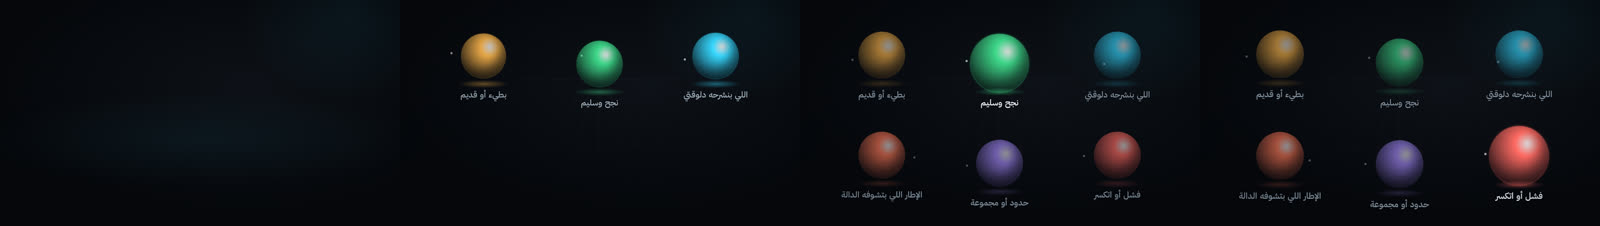
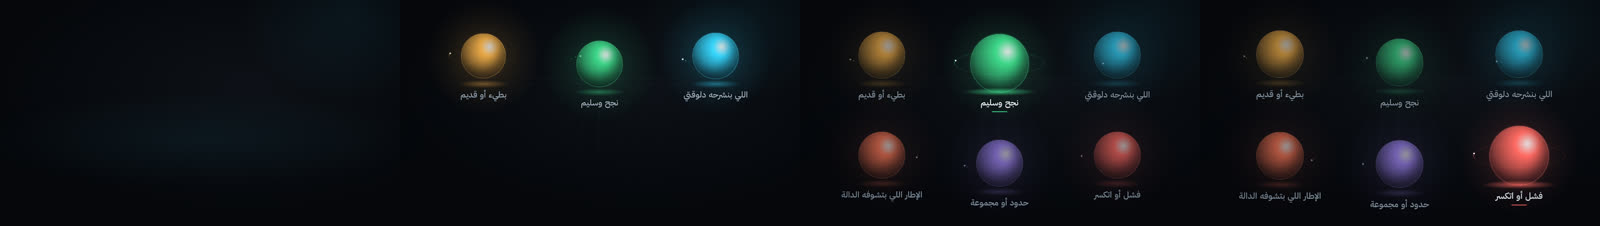
P7 dom-a: LegendOrbs finished (back glow, orbit ellipses, comet satellites, focus pulse rings, floor pool; snap PASS det 0 pending-critic; perf lite 0.153 / standard 0.182 / hero 0.186 box s/frame; Arabic QA pass)
Claude-Session: https://claude.ai/code/session_01VrU9wxU8GmuhdhWAAHnnQ8

diff --git a/studio/src/components/LegendOrbs/LegendOrbs.tsx b/studio/src/components/LegendOrbs/LegendOrbs.tsx
@@ -4,7 +4,8 @@
 // with >= 40 px between them by construction (AT-4). 6-8 items use two rows.
 // Motion: orbs arrive staggered 3 f@24 from the layer anchor (RV1 onset); `focus {index}` (anchored to the word that names
 // the meaning) -> that orb swells 1.25x with an impact flash, its label turns ink, the others dim to 45 %. Focus holds until
-// the next focus. DOM + SVG only (no WebGL): every tier is the same code; glow radii follow the tier tokens.
+// the next focus; two pulse rings ripple out on the focus word. Each orb has a back glow, a floor light pool, a thin orbit ellipse and
+// a comet-tailed satellite (depth-ordered). DOM + SVG only (no WebGL): every tier is the same code; glow radii follow the tier tokens.
 import React from 'react';
 import {interpolate, random} from 'remotion';
 import {C, FONT, SIZE} from '../../tokens';
@@ -49,14 +50,6 @@ export const LegendOrbsView: React.FC<DcProps<Props>> = ({props, ctx}) => {
   return (
     <div style={{position: 'absolute', inset: 0, ...layerStyle(ctx, rtl)}}>
       <Floor x={ctx.box.x} y={L.pos[0].y + L.r * 0.9} w={ctx.box.w} h={Math.round(ctx.box.h * 0.4)} opacity={0.45} />
-      {/* orbit ellipse (decorative, neutral) */}
-      <svg width={ctx.box.w} height={ctx.box.h} style={{position: 'absolute', left: ctx.box.x, top: ctx.box.y, overflow: 'visible'}}>
-        {Array.from({length: L.rows}, (_, row) => {
-          const ys = L.pos.filter((_, i) => Math.floor(i / Math.ceil(n / L.rows)) === row).map((p) => p.y);
-          const cy = (Math.min(...ys) + Math.max(...ys)) / 2 - ctx.box.y;
-          return <ellipse key={row} cx={ctx.box.w / 2} cy={cy} rx={ctx.box.w * 0.47} ry={Math.max(18, L.r * 0.55)} fill="none" stroke={C.ink3} strokeOpacity={0.35} strokeDasharray="2 10" strokeWidth={1.5} />;
-        })}
-      </svg>
       {props.items.map((it, i) => {
         const born = ctx.at + ff(3 * i, ctx.fps);
         if (t < born) return null;
@@ -68,35 +61,59 @@ export const LegendOrbsView: React.FC<DcProps<Props>> = ({props, ctx}) => {
         const sc = (isF ? 1 + 0.25 * fq : 1) * (0.7 + 0.3 * ent);
         const {x, y} = L.pos[i];
         const ph = random(`orb-${i}`) * Math.PI * 2;
-        const ang = ph + ((t - born) / ff(72, ctx.fps)) * Math.PI * 2; // one satellite turn per 3 s of film frames
-        const sx = Math.cos(ang) * L.r * 1.45;
-        const sy = Math.sin(ang) * L.r * 0.42;
-        const front = Math.sin(ang) > 0;
+        const turn = ff(72, ctx.fps); // one satellite turn per 3 s of film frames
+        const ang = (k: number) => ph + ((t - born - k * ff(2, ctx.fps)) / turn) * Math.PI * 2;
+        const rx = L.r * 1.55 * sc;
+        const ry = L.r * 0.4 * sc;
+        const front = Math.sin(ang(0)) > 0;
         const k = (0.9 + 0.8 * flash + (isF ? 0.5 * fq : 0)) * glowK * dim;
-        const sat = <div style={{position: 'absolute', left: x + sx - 5, top: y + sy - 5, width: 10, height: 10, borderRadius: '50%', background: C.ink, opacity: 0.7 * ent * dim, boxShadow: emit(tone, ctx.fx, 0.4)}} />;
+        // satellite + a 4-dot comet tail (seeded phase, depth-ordered: back half behind the orb, front half over it)
+        const sat = (
+          <>
+            {[3, 2, 1, 0].map((j) => (
+              <div key={j} style={{position: 'absolute', left: x + Math.cos(ang(j)) * rx - (8 - j * 1.5) / 2, top: y + Math.sin(ang(j)) * ry - (8 - j * 1.5) / 2, width: 8 - j * 1.5, height: 8 - j * 1.5, borderRadius: '50%', background: j === 0 ? C.white : tone, opacity: (j === 0 ? 0.9 : 0.5 - j * 0.12) * ent * dim, boxShadow: j === 0 ? emit(tone, ctx.fx, 0.5) : undefined}} />
+            ))}
+          </>
+        );
+        // pulse rings: two expanding rings on the focus word, one per 4 f@24
+        const age = cur && isF ? t - cur.at : -1;
+        const ringLife = ff(20, ctx.fps);
+        const rings = [0, 1].map((j) => {
+          const a2 = age - ff(4 * j, ctx.fps);
+          if (a2 < 0 || a2 > ringLife) return null;
+          const q = a2 / ringLife;
+          const rr = L.r * sc * (1.05 + 0.9 * (1 - Math.pow(1 - q, 2)));
+          return <div key={j} style={{position: 'absolute', left: x - rr, top: y - rr, width: 2 * rr, height: 2 * rr, borderRadius: '50%', border: `2px solid ${tone}${hex(0.8 * (1 - q))}`}} />;
+        });
+        const glowR = L.r * (2.6 + 0.8 * flash);
         return (
           <React.Fragment key={i}>
+            {/* back glow on the far plane + floor light pool (the named orb is the brightest thing on screen) */}
+            <div style={{position: 'absolute', left: x - glowR, top: y - glowR, width: 2 * glowR, height: 2 * glowR, borderRadius: '50%', background: `radial-gradient(circle, ${tone}${hex(0.22 * ent * dim * glowK)} 0%, ${tone}${hex(0.06 * ent * dim)} 45%, transparent 70%)`}} />
+            <div style={{position: 'absolute', left: x - rx, top: y - ry, width: 2 * rx, height: 2 * ry, borderRadius: '50%', border: `1.5px solid ${tone}${hex((0.16 + 0.3 * (isF ? fq : 0)) * ent * dim)}`}} />
             {!front ? sat : null}
             <div
               style={{
                 position: 'absolute',
-                left: x - L.r,
-                top: y - L.r,
-                width: 2 * L.r,
-                height: 2 * L.r,
+                left: x - L.r * sc,
+                top: y - L.r * sc,
+                width: 2 * L.r * sc,
+                height: 2 * L.r * sc,
                 borderRadius: '50%',
                 opacity: ent * (0.35 + 0.65 * dim),
-                transform: `scale(${sc.toFixed(4)})`,
                 background: `radial-gradient(circle at 64% 30%, ${C.white}${hex(0.85)} 0%, ${tone} 22%, ${tone}${hex(0.55)} 55%, ${C.void}${hex(0.6)} 100%)`,
+                border: `1.5px solid ${C.ink}${hex(0.18 * ent)}`, // key rim light from the upper right
                 boxShadow: `${emit(tone, ctx.fx, k)}, inset -${Math.round(L.r * 0.25)}px -${Math.round(L.r * 0.3)}px ${Math.round(L.r * 0.5)}px ${C.void}${hex(0.55)}`,
               }}
             />
             {front ? sat : null}
-            {/* floor reflection */}
-            <div style={{position: 'absolute', left: x - L.r * 1.1, top: y + L.r * 1.05, width: L.r * 2.2, height: L.r * 0.35, borderRadius: '50%', background: `radial-gradient(ellipse, ${tone}${hex(0.4 * ent * dim)} 0%, transparent 70%)`}} />
+            {rings}
+            {/* floor reflection / light pool */}
+            <div style={{position: 'absolute', left: x - L.r * (1.1 + 0.5 * (isF ? fq : 0)), top: y + L.r * 1.05, width: L.r * (2.2 + (isF ? fq : 0)), height: L.r * 0.35, borderRadius: '50%', background: `radial-gradient(ellipse, ${tone}${hex((0.4 + 0.35 * (isF ? fq : 0)) * ent * dim)} 0%, transparent 70%)`}} />
             <Place x={x} y={y + L.r * 1.3 + L.labelH / 2 + 6} w={L.cell - 40} h={L.labelH} style={{opacity: ent}}>
               <FitText id={`${ctx.id}:o${i}`} text={it.label} size={SIZE.body} maxW={L.cell - 40} color={isF ? C.ink : cur ? C.ink3 : C.ink2} weight={FONT.label.strong} />
             </Place>
+            {isF ? <div style={{position: 'absolute', left: x - 36 * fq, top: y + L.r * 1.3 + L.labelH + 8, width: 72 * fq, height: 3, borderRadius: 2, background: tone, boxShadow: emit(tone, ctx.fx, 0.6)}} /> : null}
           </React.Fragment>
         );
       })}
